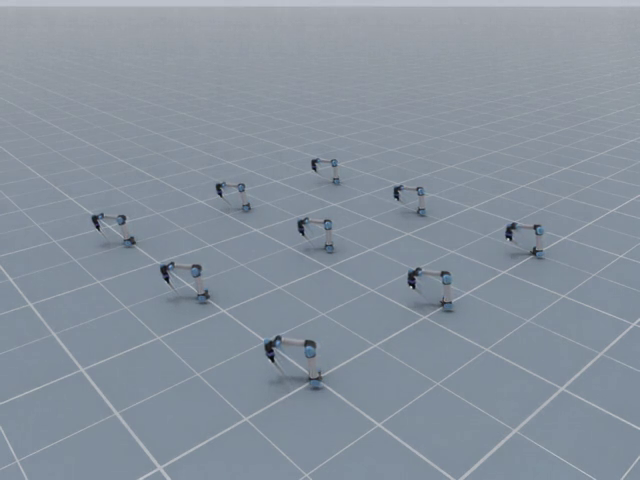
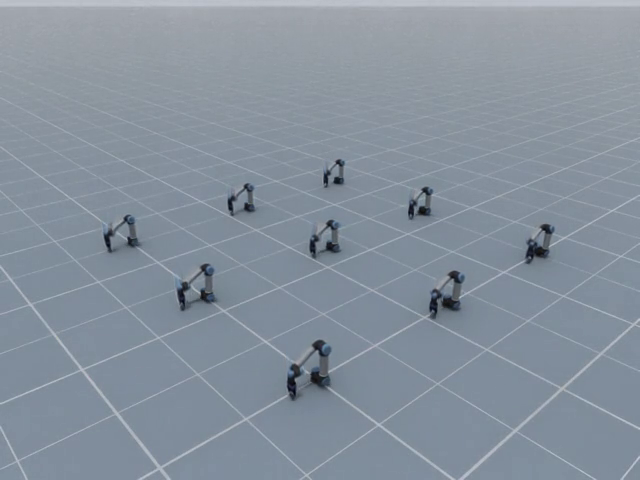
fix(motion): preserve expansion phase contracts

diff --git a/tests/sim/motion/expansion/test_stitching.py b/tests/sim/motion/expansion/test_stitching.py
@@ -29,7 +29,9 @@ from embodichain.lab.sim.motion.expansion import (
     TrajectoryTemplate,
     compare_trajectory_segments,
     extract_trajectory_segments,
+    joint_residual,
     stitch_trajectory_segments,
+    via_points,
 )
 
 _CONTROL_DT = 0.1
@@ -119,6 +121,70 @@ def test_stitch_exact_boundary_deduplicates_shared_sample_and_keeps_lineage() ->
     ]
     assert result.placements[0].source_template_id == "nominal"
     assert result.placements[1].source_start_index == 3
+    assert [
+        (phase.start_index, phase.stop_index) for phase in result.template.phases
+    ] == [
+        (0, 3),
+        (2, 5),
+    ]
+    extracted = extract_trajectory_segments(result.template)
+    torch.testing.assert_close(extracted[0].positions, reach.positions)
+    torch.testing.assert_close(extracted[1].positions, retreat.positions)
+
+    limits = torch.tensor([[-10.0, 10.0]], dtype=torch.float64)
+    residual = joint_residual(
+        result.template,
+        joint_limits=limits,
+        normalized_scale=0.01,
+        generator=torch.Generator().manual_seed(4),
+    )
+    waypoint = via_points(
+        result.template,
+        joint_limits=limits,
+        via_count=1,
+        normalized_scale=0.01,
+        generator=torch.Generator().manual_seed(5),
+    )
+    assert residual.positions[1, 0] != result.template.positions[1, 0]
+    assert waypoint.positions[3, 0] != result.template.positions[3, 0]
+    torch.testing.assert_close(
+        residual.positions[[0, 2, 4]], result.template.positions[[0, 2, 4]]
+    )
+    torch.testing.assert_close(
+        waypoint.positions[[0, 2, 4]], result.template.positions[[0, 2, 4]]
+    )
+
+
+def test_stitch_two_sample_phases_share_boundary_and_remain_extractable() -> None:
+    reach, retreat = extract_trajectory_segments(_template("short"))
+    reach = replace(
+        reach,
+        positions=reach.positions[[0, -1]],
+        dt=torch.tensor([0.0, _CONTROL_DT], dtype=torch.float64),
+    )
+    retreat = replace(
+        retreat,
+        positions=retreat.positions[[0, -1]],
+        dt=torch.tensor([0.0, _CONTROL_DT], dtype=torch.float64),
+    )
+
+    result = stitch_trajectory_segments(
+        (reach, retreat),
+        source_id="composite",
+        source_revision="policy:short",
+        template_id="two_sample_phases",
+    )
+    extracted = extract_trajectory_segments(result.template)
+
+    assert result.template.positions[:, 0].tolist() == pytest.approx([0.0, 1.0, 2.0])
+    assert [
+        (phase.start_index, phase.stop_index) for phase in result.template.phases
+    ] == [
+        (0, 2),
+        (1, 3),
+    ]
+    torch.testing.assert_close(extracted[0].positions, reach.positions)
+    torch.testing.assert_close(extracted[1].positions, retreat.positions)
 
 
 def test_discontinuous_segments_require_and_record_a_minimum_jerk_bridge() -> None:

diff --git a/embodichain/lab/sim/motion/expansion/stitching.py b/embodichain/lab/sim/motion/expansion/stitching.py
@@ -637,10 +637,12 @@ def stitch_trajectory_segments(
 ) -> StitchedTrajectory:
     """Concatenate phase segments and explicitly plan discontinuous boundaries.
 
-    Segment first samples are shared boundaries and are emitted only once. A
-    planned bridge includes its own endpoints; those are also de-duplicated.
-    The result is structurally continuous but still requires motion-limit,
-    collision, and task validation.
+    Segment first samples are shared boundaries and are emitted only once. The
+    adjacent output phases both reference that one endpoint, which keeps each
+    phase independently extractable without duplicating trajectory samples. A
+    planned bridge follows the same boundary convention. The result is
+    structurally continuous but still requires motion-limit, collision, and
+    task validation.
 
     Args:
         segments: Ordered source phases to compose.
@@ -750,7 +752,12 @@ def stitch_trajectory_segments(
             dt_parts.append(bridge.dt[1:].to(dtype=values[0].dt.dtype))
             bridge_phase_id = f"bridge_{index - 1}_{index}"
             phases.append(
-                TrajectoryPhase(bridge_phase_id, cursor, cursor + appended, "free")
+                TrajectoryPhase(
+                    bridge_phase_id,
+                    cursor - 1,
+                    cursor + appended,
+                    "free",
+                )
             )
             bridge_ids.append(bridge_phase_id)
             cursor += appended
@@ -762,7 +769,7 @@ def stitch_trajectory_segments(
         phases.append(
             TrajectoryPhase(
                 phase_id,
-                cursor,
+                cursor - 1,
                 cursor + appended,
                 right.kind,
                 right.allowed_operators,
@@ -777,7 +784,7 @@ def stitch_trajectory_segments(
                 right.source_start_index,
                 right.source_stop_index,
                 phase_id,
-                cursor,
+                cursor - 1,
                 cursor + appended,
             )
         )

diff --git a/embodichain/lab/sim/motion/expansion/contracts.py b/embodichain/lab/sim/motion/expansion/contracts.py
@@ -137,13 +137,18 @@ def _phases(
     for phase in result:
         if not isinstance(phase, TrajectoryPhase):
             raise ValueError("phases must contain TrajectoryPhase values")
+        # Adjacent semantic phases may share their single boundary sample. The
+        # shared point remains an endpoint of both phases, so endpoint-preserving
+        # operators cannot race to modify it. Their interiors must stay disjoint.
+        minimum_start = previous_stop - int(bool(seen))
         if (
             phase.phase_id in seen
-            or phase.start_index < previous_stop
+            or phase.start_index < minimum_start
             or phase.stop_index > length
         ):
             raise ValueError(
-                "phases must be unique, ordered, nonoverlapping, and within valid samples"
+                "phases must be unique, ordered, have nonoverlapping interiors, "
+                "and lie within valid samples"
             )
         seen.add(phase.phase_id)
         previous_stop = phase.stop_index
@@ -213,6 +218,8 @@ class TrajectoryPhase:
     """An explicitly annotated half-open sample interval ``[start, stop)``.
 
     Phase endpoints are samples ``start_index`` and ``stop_index - 1``.
+    Adjacent phases may share exactly one endpoint sample; their interiors may
+    not overlap.
     Unannotated samples remain unchanged by augmentation operators.
     """
 

diff --git a/tests/sim/motion/expansion/test_task_space.py b/tests/sim/motion/expansion/test_task_space.py
@@ -23,6 +23,7 @@ import torch
 
 from embodichain.compute.kinematics import DifferentiableIKCfg
 from embodichain.lab.sim.motion.expansion import (
+    TASK_SPACE_RESIDUAL_OPERATOR,
     TaskSpaceDeformationConstraint,
     TrajectoryPhase,
     TrajectoryTemplate,
@@ -127,6 +128,28 @@ def test_task_space_deformation_leaves_unselected_phases_unchanged() -> None:
     )
 
     torch.testing.assert_close(result.poses[4:], task_space.poses[4:])
+
+
+def test_task_space_contract_rejects_nonfree_deformation_permission() -> None:
+    source = replace(
+        _joint_template(),
+        phases=(
+            TrajectoryPhase(
+                "move",
+                0,
+                _SAMPLE_COUNT,
+                "contact",
+                (TASK_SPACE_RESIDUAL_OPERATOR,),
+            ),
+        ),
+    )
+
+    with pytest.raises(ValueError, match="only free phases"):
+        task_space_from_joint_template(
+            source,
+            frame_id="tool",
+            kinematics=_prismatic_kinematics,
+        )
 
 
 def test_task_space_deformation_is_reproducible_without_global_rng() -> None:

diff --git a/embodichain/lab/sim/motion/expansion/coverage.py b/embodichain/lab/sim/motion/expansion/coverage.py
@@ -108,14 +108,16 @@ def describe_trajectory(
     ranges: list[tuple[str, str, int, int]] = []
     cursor = 0
     for phase in phases:
-        if phase.start_index < cursor or phase.stop_index > q.shape[0]:
+        if (
+            phase.start_index < cursor - int(cursor > 0)
+            or phase.stop_index > q.shape[0]
+        ):
             raise ValueError("Actual phase ranges must be ordered and in bounds.")
-        if phase.start_index > cursor:
-            ranges.append(
-                (f"gap_{len(ranges)}", "unlabelled", cursor, phase.start_index)
-            )
-        ranges.append((phase.phase_id, phase.kind, phase.start_index, phase.stop_index))
-        cursor = phase.stop_index
+        start = max(cursor, phase.start_index)
+        if start > cursor:
+            ranges.append((f"gap_{len(ranges)}", "unlabelled", cursor, start))
+        ranges.append((phase.phase_id, phase.kind, start, phase.stop_index))
+        cursor = max(cursor, phase.stop_index)
     if cursor < q.shape[0]:
         ranges.append((f"gap_{len(ranges)}", "unlabelled", cursor, q.shape[0]))
 

diff --git a/tests/sim/motion/expansion/test_coverage.py b/tests/sim/motion/expansion/test_coverage.py
@@ -136,6 +136,24 @@ def test_phase_connections_and_unlabelled_samples_are_preserved() -> None:
     assert float(result.geometry[2, -1, 0]) == 1.0
 
 
+def test_shared_phase_endpoint_is_described_once_per_adjacent_phase() -> None:
+    result = describe_trajectory(
+        torch.arange(5.0)[:, None],
+        torch.arange(5.0),
+        torch.tensor([[0.0, 4.0]]),
+        phases=(
+            TrajectoryPhase("first", 0, 3),
+            TrajectoryPhase("second", 2, 5),
+        ),
+        samples_per_phase=4,
+    )
+
+    assert result.phase_ids == (("first", "free"), ("second", "free"))
+    assert result.geometry[:, 0, 0].tolist() == pytest.approx([0.0, 0.5])
+    assert result.geometry[:, -1, 0].tolist() == pytest.approx([0.5, 1.0])
+    assert result.timing[:, -1].tolist() == pytest.approx([2.0, 2.0])
+
+
 @pytest.mark.parametrize(
     "times", [torch.tensor([0.0, 0.0]), torch.tensor([0.0, float("nan")])]
 )

diff --git a/embodichain/lab/sim/motion/expansion/task_space.py b/embodichain/lab/sim/motion/expansion/task_space.py
@@ -185,7 +185,16 @@ class TaskSpaceTrajectory:
             raise ValueError("dt[0] must be zero and later arrival intervals positive")
         object.__setattr__(self, "poses", poses)
         object.__setattr__(self, "dt", dt)
-        object.__setattr__(self, "phases", _phases(self.phases, poses.shape[0]))
+        phases = _phases(self.phases, poses.shape[0])
+        if any(
+            phase.kind != "free"
+            and TASK_SPACE_RESIDUAL_OPERATOR in phase.allowed_operators
+            for phase in phases
+        ):
+            raise ValueError(
+                "only free phases may allow task-space residual deformation"
+            )
+        object.__setattr__(self, "phases", phases)
         object.__setattr__(
             self,
             "allowed_operators",

diff --git a/examples/sim/atomic_action/support.py b/examples/sim/atomic_action/support.py
@@ -775,7 +775,12 @@ def expand_tutorial_task_space_variants(
 
     def kinematics(qpos: torch.Tensor) -> tuple[torch.Tensor, torch.Tensor]:
         poses = solver.get_fk(qpos).to(qpos)
-        jacobians = solver.get_jacobian(qpos, jac_type="full").to(qpos)
+        tcp = torch.as_tensor(solver.get_tcp(), device=qpos.device, dtype=qpos.dtype)
+        jacobians = solver.get_jacobian(
+            qpos,
+            locations=tcp[:3, 3],
+            jac_type="full",
+        ).to(qpos)
         return poses, jacobians
 
     task_reference = task_space_from_joint_template(

diff --git a/tests/sim/motion/expansion/test_contracts.py b/tests/sim/motion/expansion/test_contracts.py
@@ -490,7 +490,7 @@ def test_snapshot_rejects_incomplete_joint_state() -> None:
         {"controlled_joint_indices": (0, 0)},
         {"representation": "eef_delta"},
         {"phases": (TrajectoryPhase("transit", 0, 4),)},
-        {"phases": (TrajectoryPhase("a", 0, 2), TrajectoryPhase("b", 1, 3))},
+        {"phases": (TrajectoryPhase("a", 0, 2), TrajectoryPhase("b", 0, 3))},
     ],
 )
 def test_template_rejects_invalid_representation_timing_and_indices(

diff --git a/agent_context/topics/motion-planning/motion-planning.md b/agent_context/topics/motion-planning/motion-planning.md
@@ -164,8 +164,10 @@ collision/dynamics checks, task validation and rejection of unsuccessful rows.
 `TrajectorySegment` values. `TrajectorySegmentBank` admits replacements only
 when semantic phase, motion kind, joint layout, controlled joints and tensor
 contracts agree; selection is deterministic. Stitching de-duplicates shared
-boundaries, gives every output phase a unique identity and retains multi-source
-lineage. A discontinuous boundary must go through an injected
+boundaries while adjacent output phases share that one endpoint index, so every
+phase remains independently extractable and augmentable. It gives every output
+phase a unique identity and retains multi-source lineage. A discontinuous
+boundary must go through an injected
 `TrajectoryBridgePlanner`; `MinimumJerkBridgePlanner` is only a sampled
 velocity/acceleration-limited geometric fallback and makes no collision claim.
 The resulting template enters the existing `TemplateSourceAdapter` path, so
